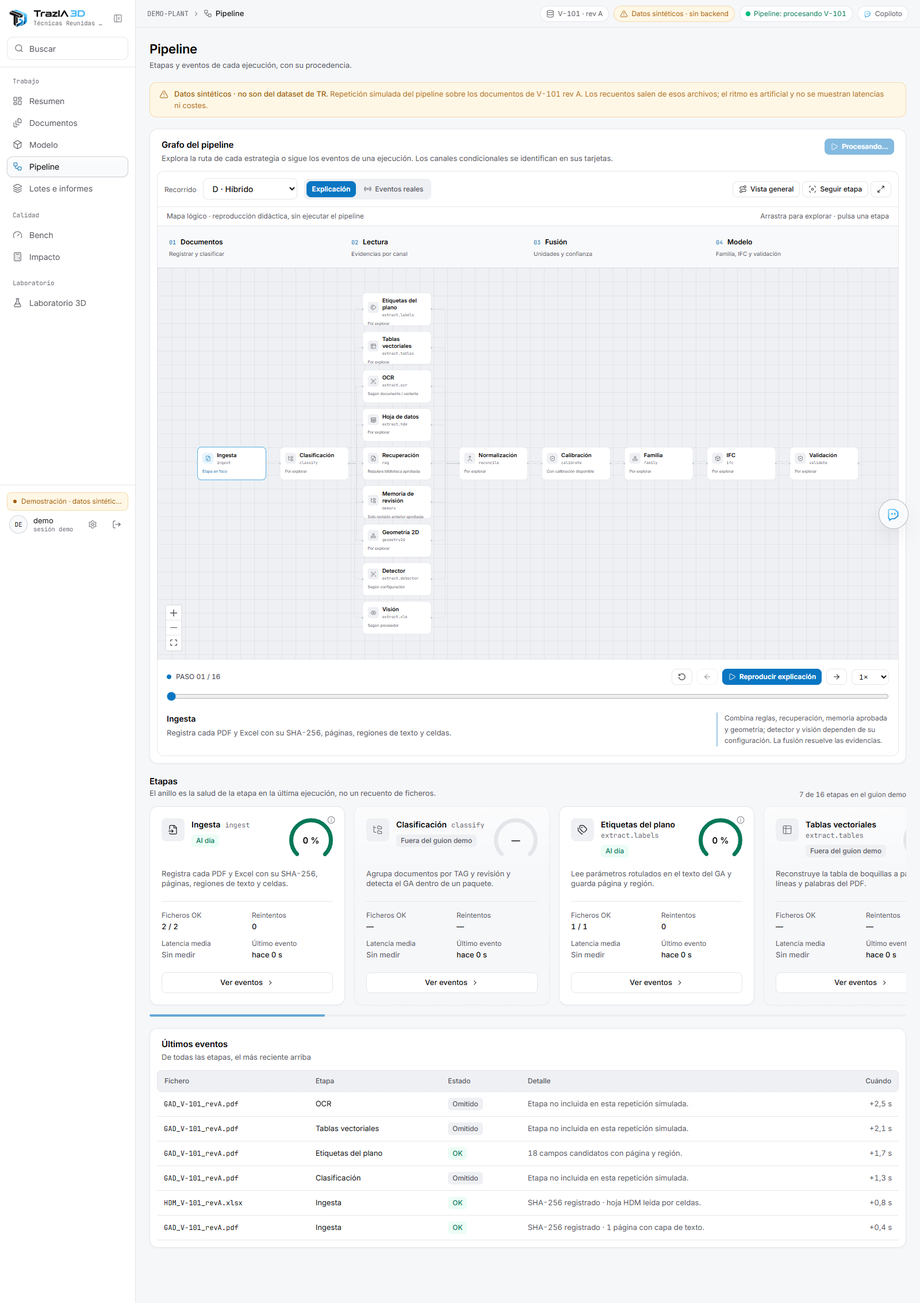
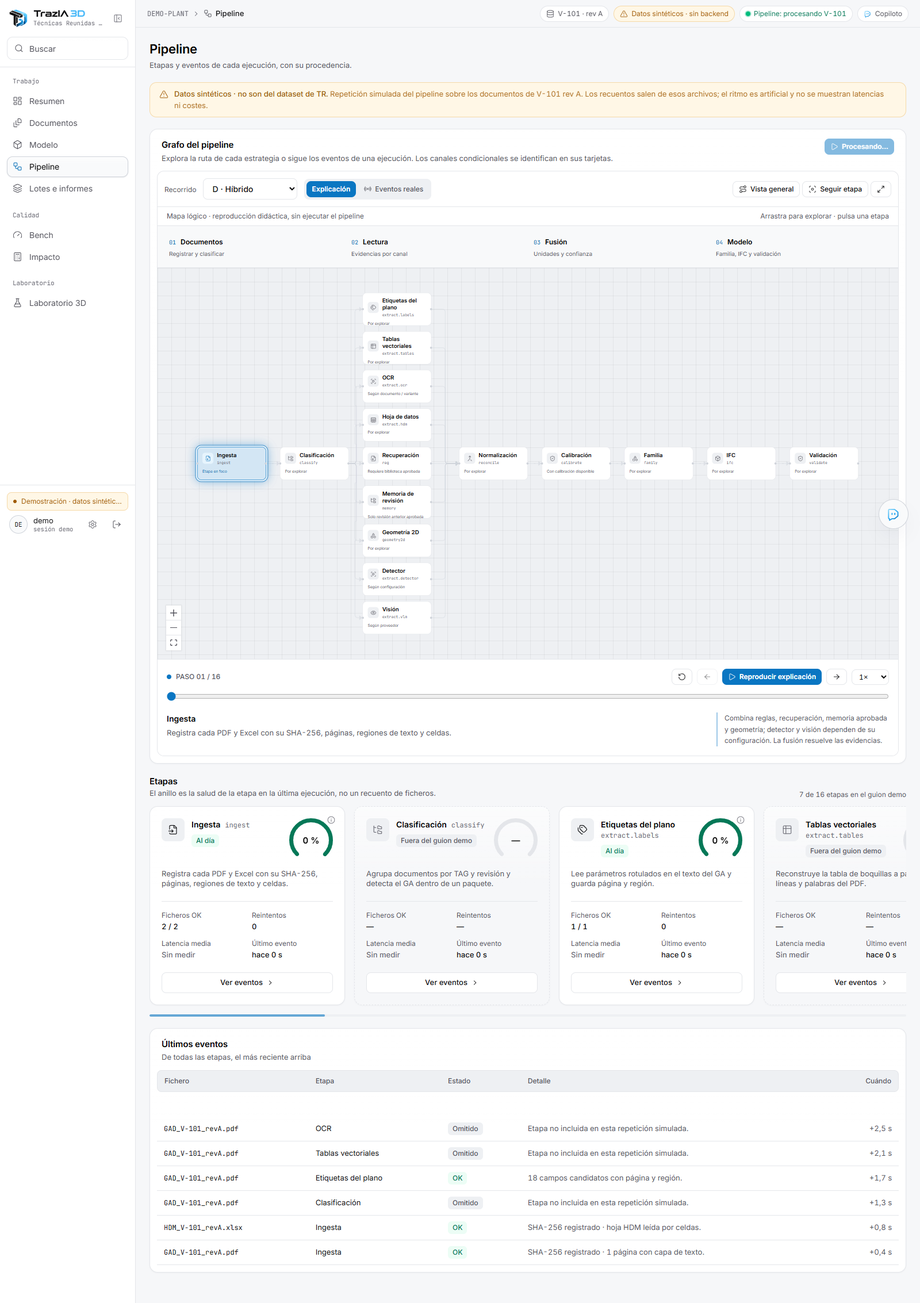
web: acelerar la traza del pipeline y mostrar el estado real por fase

diff --git a/web/src/features/pipeline/pipeline-graph.tsx b/web/src/features/pipeline/pipeline-graph.tsx
@@ -1,7 +1,7 @@
 "use client";
 
 import "@xyflow/react/dist/style.css";
-import { BaseEdge, Controls, Handle, Position, ReactFlow, ReactFlowProvider, getSmoothStepPath, useReactFlow, type Edge, type EdgeProps, type Node, type NodeProps } from "@xyflow/react";
+import { BaseEdge, Controls, Handle, MarkerType, Position, ReactFlow, ReactFlowProvider, getSmoothStepPath, useReactFlow, type Edge, type EdgeProps, type Node, type NodeProps } from "@xyflow/react";
 import { ArrowLeft, ArrowRight, Focus, Maximize2, Pause, Play, Radio, RotateCcw, Route } from "lucide-react";
 import { useTheme } from "next-themes";
 import { memo, useEffect, useMemo, useRef, useState, useSyncExternalStore } from "react";
@@ -13,13 +13,14 @@ import { STAGES, type StageDef, type StageId } from "@/lib/mock/pipeline";
 import { usePipeline, type StageRunState } from "@/stores/pipeline";
 import { STAGE_ICON } from "./stage-meta";
 import { CONDITIONAL, NODE_HEIGHT, NODE_WIDTH, PROFILES, graphModel, type Strategy } from "./graph-model";
+import { StageInspector } from "./stage-inspector";
 import styles from "./pipeline-graph.module.css";
 
-type StageNode = Node<{ def: StageDef; run: StageRunState; active: boolean; visited: boolean; live: boolean; inspect: () => void }, "stage">;
+type StageNode = Node<{ def: StageDef; run: StageRunState; active: boolean; visited: boolean; live: boolean; moving: boolean; selected: boolean; inspect: () => void }, "stage">;
 const StageNodeView = memo(function StageNodeView({ data }: NodeProps<StageNode>) {
   const { def, run, active, visited, live } = data;
   const label = live ? !apiEnabled ? "Sin API conectada" : run.lastEventAt === null ? "Sin eventos" : run.status === "skipped" ? "Omitida" : run.ok < run.total ? "Con errores" : `${run.ok}/${run.total} eventos OK` : active ? "Etapa en foco" : CONDITIONAL[def.id] ?? (visited ? "Explicada" : "Por explorar");
-  return <div role="button" tabIndex={0} aria-label={`Explorar ${def.name}`} onClick={data.inspect} onKeyDown={event => { if (event.key === "Enter" || event.key === " ") { event.preventDefault(); event.stopPropagation(); data.inspect(); } }} data-stage={def.id} data-active={active} style={{ width: NODE_WIDTH, height: NODE_HEIGHT }} className={cn(styles.node, "rounded-xl border bg-surface px-3.5 py-3", active ? "border-accent shadow-[0_0_0_3px_var(--accent-soft)]" : live && run.total > run.ok ? "border-danger/60" : visited ? "border-live/50" : "border-border")}>
+  return <div role="button" tabIndex={0} aria-label={`Explorar ${def.name}`} onClick={data.inspect} onKeyDown={event => { if (event.key === "Enter" || event.key === " ") { event.preventDefault(); event.stopPropagation(); data.inspect(); } }} data-stage={def.id} data-active={active} data-moving={data.moving} data-selected={data.selected} style={{ width: NODE_WIDTH, height: NODE_HEIGHT }} className={cn(styles.node, "rounded-xl border bg-surface px-3.5 py-3", active ? "border-accent shadow-[0_0_0_3px_var(--accent-soft)]" : live && run.total > run.ok ? "border-danger/60" : visited ? "border-live/50" : "border-border")}>
     <Handle type="target" position={Position.Left} className="!size-1.5 !border-0 !bg-border-strong" />
     <div className="flex items-center gap-2.5"><span className={cn("flex size-8 shrink-0 items-center justify-center rounded-lg", active ? "bg-accent-soft text-accent-text" : visited ? "bg-live-soft text-live" : "bg-surface-sunken text-muted")}><Icon icon={STAGE_ICON[def.id]} size={17} /></span><div className="min-w-0"><p className="text-[16px] leading-tight font-semibold text-strong">{def.name}</p><p className="mt-1 font-mono text-[11px] text-faint">{def.code}</p></div></div>
     <p className={cn("mt-2 text-[11px]", active ? "text-accent-text" : "text-muted")}>{label}</p>
@@ -29,12 +30,23 @@ const StageNodeView = memo(function StageNodeView({ data }: NodeProps<StageNode>
 function FlowEdge(props: EdgeProps) {
   const [path] = getSmoothStepPath({ ...props, borderRadius: 12 });
   const flowing = props.data?.flowing === true;
-  return <><BaseEdge id={props.id} path={path} style={props.style} />{flowing ? <circle r="3.5" fill="var(--accent)" style={{ filter: "drop-shadow(0 0 4px var(--accent))" }}><animateMotion dur="1.8s" repeatCount="indefinite" path={path} /></circle> : null}</>;
+  const traced = props.data?.traced === true;
+  const duration = `${0.78 / Number(props.data?.speed ?? 1)}s`;
+  return <>
+    {traced ? <path d={path} fill="none" stroke="var(--accent)" strokeWidth={16} opacity={0.18} style={{ pointerEvents: "none" }} /> : null}
+    <BaseEdge id={props.id} path={path} style={props.style} markerEnd={props.markerEnd} />
+    {flowing ? [0, 1, 2].map(i => <circle key={i} r={i === 0 ? 5 : 3.5} fill="var(--accent)" opacity={1 - i * 0.22} style={{ filter: "drop-shadow(0 0 5px var(--accent))", pointerEvents: "none" }}><animateMotion dur={duration} begin={`${-i * 0.26}s`} repeatCount="indefinite" path={path} /></circle>) : null}
+  </>;
 }
 const nodeTypes = { stage: StageNodeView };
 const edgeTypes = { flow: FlowEdge };
 
 function Graph({ strategy, onStrategyChange }: { strategy: Strategy; onStrategyChange: (value: Strategy) => void }) {
+  const jobStatus = usePipeline(s => s.jobStatus);
+  const jobStrategy = usePipeline(s => s.jobStrategy);
+  const inputFiles = usePipeline(s => s.inputFiles);
+  const jobId = usePipeline(s => s.jobId);
+  const connectionError = usePipeline(s => s.error);
   const stages = usePipeline(s => s.stages);
   const events = usePipeline(s => s.events);
   const activeStage = usePipeline(s => s.activeStage);
@@ -57,6 +69,7 @@ function Graph({ strategy, onStrategyChange }: { strategy: Strategy; onStrategyC
   const [speed, setSpeed] = useState(1);
   const [follow, setFollow] = useState(false);
   const [inspected, setInspected] = useState<StageId | null>(null);
+  const [panelStage, setPanelStage] = useState<StageId | null>(null);
   const [expanded, setExpanded] = useState(false);
   const { fitView, setCenter } = useReactFlow();
   const live = mode === "live";
@@ -65,9 +78,10 @@ function Graph({ strategy, onStrategyChange }: { strategy: Strategy; onStrategyC
   const observedKey = observed.join(",");
   const model = useMemo(() => graphModel(effectiveStrategy, observedKey ? observedKey.split(",") as StageId[] : []), [effectiveStrategy, observedKey]);
   const index = Math.min(step, model.ids.length - 1);
-  const focus = live ? apiEnabled ? inspected ?? activeStage : null : model.ids[index];
+  const focus = live ? apiEnabled ? activeStage ?? inspected : null : model.ids[index];
   const def = STAGES.find(s => s.id === focus);
   const lastEvent = live && apiEnabled ? events.find(event => event.stage === focus) : null;
+  const panelDef = STAGES.find(stage => stage.id === panelStage);
   const moving = playing && !live && !reduce && visible && pageVisible;
 
   useEffect(() => {
@@ -82,7 +96,7 @@ function Graph({ strategy, onStrategyChange }: { strategy: Strategy; onStrategyC
     const timer = window.setTimeout(() => {
       if (index === model.ids.length - 1) setPlaying(false);
       else setStep(index + 1);
-    }, 2600 / speed);
+    }, 1050 / speed);
     return () => window.clearTimeout(timer);
   }, [moving, index, model.ids.length, speed]);
   useEffect(() => {
@@ -101,11 +115,11 @@ function Graph({ strategy, onStrategyChange }: { strategy: Strategy; onStrategyC
     return () => clearTimeout(timer);
   }, [layoutKey, expanded, fitView, reduce, follow]);
   useEffect(() => {
-    if (!expanded) return;
-    const escape = (event: KeyboardEvent) => { if (event.key === "Escape") setExpanded(false); };
+    if (!expanded && !panelStage) return;
+    const escape = (event: KeyboardEvent) => { if (event.key === "Escape") { if (panelStage) { setPanelStage(null); container.current?.querySelector<HTMLElement>(`[data-stage="${panelStage}"]`)?.focus({ preventScroll: true }); } else setExpanded(false); } };
     window.addEventListener("keydown", escape);
     return () => window.removeEventListener("keydown", escape);
-  }, [expanded]);
+  }, [expanded, panelStage]);
   useEffect(() => {
     const el = container.current;
     if (!el) return;
@@ -116,30 +130,33 @@ function Graph({ strategy, onStrategyChange }: { strategy: Strategy; onStrategyC
     return () => observer.disconnect();
   }, [fitView, follow]);
 
-  const nodes = useMemo<StageNode[]>(() => model.ids.map((id, i) => ({ id, type: "stage", position: model.positions[id]!, draggable: false, ariaLabel: `${STAGES.find(s => s.id === id)!.name}: explorar etapa`, data: { def: STAGES.find(s => s.id === id)!, run: stages[id], active: focus === id, visited: live ? apiEnabled && stages[id].status === "done" : i < index, live, inspect: () => { setPlaying(false); if (live) setInspected(id); else setStep(i); } } })), [model, stages, focus, index, live]);
+  const nodes = useMemo<StageNode[]>(() => model.ids.map((id, i) => ({ id, type: "stage", position: model.positions[id]!, draggable: false, ariaLabel: `${STAGES.find(s => s.id === id)!.name}: explorar etapa`, data: { def: STAGES.find(s => s.id === id)!, run: stages[id], active: focus === id, visited: live ? apiEnabled && stages[id].status === "done" : i < index, live, moving: focus === id && (moving || live && running && activeStage === id && !reduce && visible && pageVisible), selected: panelStage === id, inspect: () => { setPanelStage(id); setPlaying(false); if (live) setInspected(id); else setStep(i); } } })), [model, stages, focus, index, live, moving, running, reduce, visible, pageVisible, panelStage, activeStage]);
   const edges = useMemo<Edge[]>(() => model.edges.map(([source, target]) => {
     const lit = live ? apiEnabled && stages[source].status === "done" && stages[target].lastEventAt !== null : model.ids.indexOf(target) <= index;
-    const flowing = moving && focus === target || live && !reduce && visible && pageVisible && focus === target;
-    return { id: `${source}-${target}`, source, target, type: "flow", data: { flowing }, style: { stroke: flowing ? "var(--accent)" : lit ? "var(--live)" : "var(--border-strong)", strokeWidth: flowing ? 2 : 1.4, opacity: lit || flowing ? 1 : 0.45 } };
-  }), [model, stages, index, focus, moving, live, reduce, visible, pageVisible]);
+    const traced = focus === target;
+    const flowing = moving && traced || live && running && !reduce && visible && pageVisible && activeStage === target;
+    const stroke = traced ? "var(--accent)" : lit ? "var(--live)" : "var(--border-strong)";
+    return { id: `${source}-${target}`, source, target, type: "flow", data: { flowing, traced, speed }, markerEnd: { type: MarkerType.ArrowClosed, color: stroke, width: 18, height: 18 }, style: { stroke, strokeWidth: traced ? 4.5 : lit ? 2.4 : 1.5, opacity: traced || lit ? 1 : 0.55 } };
+  }), [model, stages, index, focus, moving, live, running, activeStage, reduce, visible, pageVisible, speed]);
   const seek = (value: number) => { setPlaying(false); setStep(value); };
   return <div ref={container} className={cn("overflow-hidden rounded-xl border border-border bg-surface", expanded && "fixed inset-4 z-50 overflow-y-auto shadow-2xl")}>
     <div className="flex flex-wrap items-center justify-between gap-3 border-b border-border p-3">
-      <div className="flex flex-wrap items-center gap-3"><label className="text-xs text-muted">Recorrido <select aria-label="Estrategia del grafo" className="ml-2 rounded-lg border border-border bg-surface px-3 py-2 text-sm font-medium text-text" value={effectiveStrategy} disabled={live || running && apiEnabled} onChange={e => { manualPan.current = false; onStrategyChange(e.target.value as Strategy); seek(0); }}>{Object.entries(PROFILES).map(([key, p]) => <option key={key} value={key}>{p.name}</option>)}</select></label>
+      <div className="flex flex-wrap items-center gap-3"><label className="text-xs text-muted">Recorrido <select aria-label="Estrategia del grafo" className="ml-2 rounded-lg border border-border bg-surface px-3 py-2 text-sm font-medium text-text" value={effectiveStrategy} disabled={live || running && apiEnabled} onChange={e => { setPanelStage(null); manualPan.current = false; onStrategyChange(e.target.value as Strategy); seek(0); }}>{Object.entries(PROFILES).map(([key, p]) => <option key={key} value={key}>{p.name}</option>)}</select></label>
       <div className="flex gap-1 rounded-lg bg-surface-sunken p-1" aria-label="Origen del grafo"><Button size="sm" variant={!live ? "primary" : "ghost"} aria-pressed={!live} onClick={() => { setMode("explain"); setPlaying(false); }}>Explicación</Button><Button size="sm" variant={live ? "primary" : "ghost"} aria-pressed={live} onClick={() => { setMode("live"); setPlaying(false); }}><Icon icon={Radio} size={13} />Eventos reales</Button></div></div>
       <div className="flex gap-1"><Button size="sm" aria-pressed={!follow} onClick={() => { manualPan.current = false; setFollow(false); void fitView({ padding: 0.12, duration: reduce ? 0 : 280 }); }}><Icon icon={Route} size={14} />Vista general</Button><Button size="sm" aria-pressed={follow} variant={follow ? "primary" : "secondary"} onClick={() => { setInspected(null); setFollow(!follow); }}><Icon icon={Focus} size={14} />Seguir etapa</Button><Button size="sm" aria-label={expanded ? "Reducir grafo" : "Ampliar grafo"} aria-pressed={expanded} onClick={() => { manualPan.current = false; setExpanded(!expanded); }}><Icon icon={Maximize2} size={14} /></Button></div>
     </div>
     <div className="flex flex-wrap justify-between gap-2 border-b border-border px-4 py-2 text-xs text-muted"><span>{live ? apiEnabled ? "Estados recibidos del servidor; sin eventos no implica ejecución." : "Sin API conectada. La simulación de demo no acredita ejecución real." : "Mapa lógico · reproducción didáctica, sin ejecutar el pipeline"}</span><span>Arrastra para explorar · pulsa una etapa</span></div>
     <div className="grid grid-cols-4 gap-1 border-b border-border bg-surface-sunken/40 px-3 py-2" aria-label="Fases del recorrido">
-      {([{ name: "Documentos", id: "ingest", hint: "Registrar y clasificar" }, { name: "Lectura", id: model.channels[0]!, hint: "Evidencias por canal" }, { name: effectiveStrategy === "d_hibrido" ? "Fusión" : "Reconciliación", id: "reconcile", hint: "Unidades y confianza" }, { name: "Modelo", id: "family", hint: "Familia, IFC y validación" }] as { name: string; id: StageId; hint: string }[]).map((phase, i) => <button type="button" key={phase.id} className="rounded-lg px-2 py-2 text-left hover:bg-accent-soft focus-visible:outline-2 focus-visible:outline-accent" onClick={() => { if (live) setInspected(phase.id); else seek(model.ids.indexOf(phase.id)); }}><span className="font-mono text-[10px] text-accent-text">0{i + 1}</span><span className="ml-2 text-xs font-semibold text-strong">{phase.name}</span><span className="mt-1 hidden text-[10px] text-muted sm:block">{phase.hint}</span></button>)}
+      {([{ name: "Documentos", id: "ingest", hint: "Registrar y clasificar" }, { name: "Lectura", id: model.channels[0]!, hint: "Evidencias por canal" }, { name: effectiveStrategy === "d_hibrido" ? "Fusión" : "Reconciliación", id: "reconcile", hint: "Unidades y confianza" }, { name: "Modelo", id: "family", hint: "Familia, IFC y validación" }] as { name: string; id: StageId; hint: string }[]).map((phase, i) => <button type="button" key={phase.id} className="rounded-lg px-2 py-2 text-left hover:bg-accent-soft focus-visible:outline-2 focus-visible:outline-accent" onClick={() => { setPanelStage(phase.id); if (live) setInspected(phase.id); else seek(model.ids.indexOf(phase.id)); }}><span className="font-mono text-[10px] text-accent-text">0{i + 1}</span><span className="ml-2 text-xs font-semibold text-strong">{phase.name}</span><span className="mt-1 hidden text-[10px] text-muted sm:block">{phase.hint}</span></button>)}
     </div>
     <div className={cn("drafting-grid relative w-full", expanded ? "h-[calc(100dvh-390px)] min-h-[200px]" : "h-[560px] sm:h-[680px]")}>
+      {panelDef ? <StageInspector jobLabel={`${jobStrategy ?? "estrategia sin informar"} · ${jobId ?? ""}`} def={panelDef} events={events} actual={apiEnabled && jobId !== null} jobStatus={jobStatus} inputFiles={inputFiles} connectionError={connectionError} onClose={() => { setPanelStage(null); container.current?.querySelector<HTMLElement>(`[data-stage="${panelStage}"]`)?.focus({ preventScroll: true }); }} /> : null}
       <ReactFlow nodes={nodes} edges={edges} nodeTypes={nodeTypes} edgeTypes={edgeTypes} fitView fitViewOptions={{ padding: 0.12, maxZoom: 1 }} minZoom={0.2} maxZoom={1.6} proOptions={{ hideAttribution: true }} colorMode={mounted && resolvedTheme === "light" ? "light" : "dark"} nodesDraggable={false} nodesConnectable={false} nodesFocusable={false} onMoveStart={event => { if (event) { manualPan.current = true; setFollow(false); } }} zoomOnScroll={false} panOnScroll={false} preventScrolling={false} aria-label="Grafo de etapas del pipeline"><Controls showInteractive={false} /></ReactFlow>
     </div>
     <div className="border-t border-border bg-surface p-4">
       <div className="flex flex-wrap items-center gap-2">
         <span className="mr-auto flex items-center gap-2 text-xs font-medium text-muted"><span className="size-2 rounded-full bg-accent" />{live ? "Observación de eventos" : `PASO ${String(index + 1).padStart(2, "0")} / ${model.ids.length}`}</span>
-        {!live ? <><Button size="sm" aria-label="Volver al inicio" onClick={() => seek(0)}><Icon icon={RotateCcw} size={14} /></Button><Button size="sm" aria-label="Etapa anterior" disabled={index === 0} onClick={() => seek(index - 1)}><Icon icon={ArrowLeft} size={14} /></Button><Button size="sm" variant="primary" disabled={!!reduce} onClick={() => { if (index === model.ids.length - 1) setStep(0); setPlaying(!playing); }}><Icon icon={playing ? Pause : Play} size={14} />{playing ? "Pausar" : "Reproducir explicación"}</Button><Button size="sm" aria-label="Etapa siguiente" disabled={index === model.ids.length - 1} onClick={() => seek(index + 1)}><Icon icon={ArrowRight} size={14} /></Button><select aria-label="Velocidad de explicación" className="rounded-lg border border-border bg-surface px-2 py-1 text-xs text-text" value={speed} onChange={e => setSpeed(Number(e.target.value))}><option value={0.5}>0,5×</option><option value={1}>1×</option><option value={2}>2×</option></select></> : null}
+        {!live ? <><Button size="sm" aria-label="Volver al inicio" onClick={() => seek(0)}><Icon icon={RotateCcw} size={14} /></Button><Button size="sm" aria-label="Etapa anterior" disabled={index === 0} onClick={() => seek(index - 1)}><Icon icon={ArrowLeft} size={14} /></Button><Button size="sm" variant="primary" disabled={!!reduce} onClick={() => { setPanelStage(null); if (index === model.ids.length - 1) setStep(0); setPlaying(!playing); }}><Icon icon={playing ? Pause : Play} size={14} />{playing ? "Pausar" : "Reproducir explicación"}</Button><Button size="sm" aria-label="Etapa siguiente" disabled={index === model.ids.length - 1} onClick={() => seek(index + 1)}><Icon icon={ArrowRight} size={14} /></Button><select aria-label="Velocidad de explicación" className="rounded-lg border border-border bg-surface px-2 py-1 text-xs text-text" value={speed} onChange={e => setSpeed(Number(e.target.value))}><option value={0.5}>0,5×</option><option value={1}>1×</option><option value={2}>2×</option><option value={3}>3×</option></select></> : null}
       </div>
       {!live ? <input aria-label="Posición en el recorrido" className="my-3 w-full accent-[var(--accent)]" type="range" min={0} max={model.ids.length - 1} value={index} onChange={e => seek(Number(e.target.value))} /> : null}
       <div className="mt-2 grid gap-3 md:grid-cols-[1fr_300px]"><div aria-live={playing ? "off" : "polite"}><p className="font-semibold text-strong">{def?.name ?? "Esperando eventos"}</p><p className="mt-1 max-w-[85ch] text-[13px] leading-relaxed text-muted">{lastEvent?.detail ?? def?.description ?? "Procesa documentos para observar sus etapas. Los trabajos completados conservan sus estados."}</p>{lastEvent ? <p className="mt-2 font-mono text-[11px] text-muted">{lastEvent.file} · {lastEvent.status === "ok" ? "OK" : lastEvent.status === "error" ? "Error" : "Omitida"}</p> : null}</div><p className="border-l-2 border-accent/40 pl-3 text-xs leading-relaxed text-muted">{PROFILES[effectiveStrategy].detail}{reduce ? " Movimiento reducido: explora con las flechas o el deslizador." : ""}</p></div>

diff --git a/web/src/features/pipeline/stage-inspector.tsx b/web/src/features/pipeline/stage-inspector.tsx
@@ -1,0 +1,37 @@
+"use client";
+
+import { X } from "lucide-react";
+import { Button, Icon } from "@/components/ui/primitives";
+import type { PipelineEvent, StageDef } from "@/lib/mock/pipeline";
+import { stageProgress } from "./stage-progress";
+
+export function StageInspector({ jobLabel, def, events, actual, jobStatus, inputFiles, connectionError, onClose }: {
+  jobLabel: string; def: StageDef; events: PipelineEvent[]; actual: boolean; jobStatus: string | null;
+  inputFiles: string[]; connectionError: string | null; onClose: () => void;
+}) {
+  const data = stageProgress(def.id, actual ? events : [], actual ? jobStatus : null, actual ? inputFiles : []);
+  const statusLabel = ({ queued: "en cola", running: "en curso", done: "finalizado", error: "fallido", cancelled: "cancelado", timeout: "tiempo agotado" } as Record<string, string>)[jobStatus ?? ""] ?? "sin estado";
+  const state = !actual ? "Sin trabajo real" : data.errors ? "Con errores" : data.skipped && !data.ok ? "Omitida" : jobStatus === "done" && data.ok ? "Finalizada" : data.rows.length ? "Resultados recibidos" : "Sin eventos de esta fase";
+  return <aside aria-label="Detalle de la etapa" className="absolute top-3 right-3 z-20 max-h-[calc(100%-24px)] w-[360px] max-w-[calc(100%-24px)] overflow-auto rounded-xl border border-accent/60 bg-surface p-4 shadow-2xl">
+    <div className="flex items-start justify-between gap-3"><div><p className="font-mono text-[10px] uppercase tracking-wider text-accent-text">Inspector de fase</p><h3 className="mt-1 text-lg font-semibold text-strong">{def.name}</h3></div><Button size="sm" variant="ghost" aria-label="Cerrar detalle de etapa" onClick={onClose}><Icon icon={X} size={16} /></Button></div>
+    <p className="mt-2 text-[13px] leading-relaxed text-muted">{def.description}</p>
+    <div className="mt-4 border-t border-border pt-3">
+      <p className="text-xs font-semibold text-strong">{actual ? "Datos reales del trabajo" : "Sin datos reales de ejecución"}</p>
+      {actual ? <p className="mt-1 break-all font-mono text-[10px] text-faint">Último trabajo: {jobLabel}</p> : null}
+      <p className="mt-1 text-xs text-muted">{state}{actual && jobStatus ? ` · trabajo ${statusLabel}` : " · la explicación no ejecuta esta fase"}</p>
+      {connectionError ? <p role="status" className="mt-2 text-xs text-danger">{connectionError} Se conservan los últimos datos recibidos.</p> : null}
+      <dl className="mt-3 grid grid-cols-3 gap-2 text-xs">
+        {[["Eventos OK", data.ok], ["Errores", data.errors], ["Omisiones", data.skipped]].map(([label, value]) => <div key={label}><dt className="text-muted">{label}</dt><dd className="mt-1 font-mono text-lg font-semibold text-strong">{actual ? value : "—"}</dd></div>)}
+      </dl>
+      <div className="mt-4 rounded-lg border border-border bg-surface-sunken p-3" data-testid="stage-progress">
+        <p className="text-xs font-medium text-strong">{def.id === "ingest" ? "Cobertura de documentos" : "Progreso del tramo"}</p>
+        {actual && data.percent !== null ? <><p className="mt-1 text-lg font-semibold text-accent-text">{data.percent} % <span className="text-xs font-normal text-muted">· queda {data.remaining} %</span></p><div role="progressbar" aria-label="Progreso comunicado de la fase" aria-valuenow={data.percent} aria-valuemin={0} aria-valuemax={100} className="mt-2 h-1.5 overflow-hidden rounded-full bg-border"><div className="h-full origin-left bg-accent" style={{ transform: `scaleX(${data.percent / 100})` }} /></div></> : <p className="mt-2 text-sm text-muted">{actual ? "Porcentaje pendiente no informado por la API" : "Porcentaje real no disponible"}</p>}
+        <p className="mt-2 text-[11px] leading-relaxed text-muted">{actual ? data.basis : "La animación didáctica tiene su propio ritmo; no representa procesamiento medido."}</p>
+      </div>
+    </div>
+    <div className="mt-4"><h4 className="text-xs font-semibold text-strong">Últimos datos comunicados</h4>
+      {data.rows.length ? <ul className="mt-2 space-y-2">{data.rows.slice(0, 6).map(row => <li key={row.id} className="rounded-lg border border-border p-2 text-xs"><p className="break-all font-mono text-accent-text">{row.file || "Equipo / modelo"} · {row.status}</p><p className="mt-1 leading-relaxed text-muted">{row.detail}</p></li>)}</ul> : <p className="mt-2 text-xs text-muted">Todavía no hay datos comunicados para esta fase.</p>}
+      <p className="mt-3 text-[10px] leading-relaxed text-faint">Estos mensajes son el detalle disponible del servidor. No son una vista de todos los valores intermedios ni una estimación del tiempo restante.</p>
+    </div>
+  </aside>;
+}

diff --git a/web/src/stores/pipeline.ts b/web/src/stores/pipeline.ts
@@ -68,6 +68,9 @@ type PipelineState = {
   activeStage: StageId | null;
   jobId: string | null;
   jobRun: JobStatus["run"];
+  jobStatus: string | null;
+  jobStrategy: string | null;
+  inputFiles: string[];
   warnings: string[];
   error: string | null;
   start: (rev: Revision, options?: StartOptions) => void;
@@ -81,7 +84,8 @@ let closeEvents: (() => void) | null = null;
 
 async function startApi(rev: Revision, options: StartOptions, set: Setter) {
   closeEvents?.();
-  set({ running: true, error: null, warnings: [], jobRun: null, jobId: null,
+  set({ running: true, error: null, warnings: [], jobRun: null, jobId: null, jobStatus: "queued", jobStrategy: options.strategy ?? "b_reglas",
+    inputFiles: options.files?.length ? options.files.map(file => file.name) : rev.documents.map(document => document.filename),
     revision: rev.revision, events: [], stages: initialStages(), activeStage: null });
   try {
     const identity = `${rev.project_id}:${rev.equipment.id}:${rev.revision}`;
@@ -95,10 +99,10 @@ async function startApi(rev: Revision, options: StartOptions, set: Setter) {
       equipment_id: rev.equipment.id, revision: `${rev.revision}-run-${Date.now().toString(36)}`,
       strategy: options.strategy ?? "b_reglas", dataset: options.dataset ?? (options.files?.length ? "real" : rev.dataset) });
     const job = await getJob(id);
-    set({ jobId: id });
+    set({ jobId: id, jobStatus: job.status });
     closeEvents = subscribeJob(id, event => {
       set(state => {
-        if (state.events.some(e => e.id === String(event.id))) return {};
+        if (state.jobId !== id || state.events.some(e => e.id === String(event.id))) return {};
         const definition = STAGES.find(d => d.id === event.stage);
         const at = Math.max(0, event.created_at - job.created_at);
         const events = [{ ...event, id: String(event.id), at }, ...state.events];
@@ -107,15 +111,15 @@ async function startApi(rev: Revision, options: StartOptions, set: Setter) {
         const next: StageRunState = { status: event.status === "omitido" ? "skipped" : "done",
           ok: previous.ok + (event.status === "ok" ? 1 : 0),
           total: previous.total + (event.status === "omitido" ? 0 : 1), lastEventAt: event.created_at * 1000 };
-        return { events, error: null, stages: { ...state.stages, [definition.id]: next }, activeStage: definition.id };
+        return { events, error: null, jobStatus: "running", stages: { ...state.stages, [definition.id]: next }, activeStage: definition.id };
       });
     }, status => {
       closeEvents = null;
-      set({ running: false, activeStage: null, lastFinishedAt: Date.now() });
-      void getJob(id).then(result => set({ jobRun: result.run, warnings: result.warnings,
-        error: status === "done" ? null : result.error ?? `Trabajo ${status}` })).catch(error => set({ error: String(error) }));
+      set({ running: false, activeStage: null, jobStatus: status, lastFinishedAt: Date.now() });
+      void getJob(id).then(result => set(state => state.jobId === id ? { jobRun: result.run, jobStatus: result.status, warnings: result.warnings,
+        error: status === "done" ? null : result.error ?? `Trabajo ${status}` } : {})).catch(error => set(state => state.jobId === id ? { error: String(error) } : {}));
     }, () => set({ error: "Conexión de eventos interrumpida; intentando reanudar con la API." }));
-  } catch (error) { set({ running: false, error: error instanceof Error ? error.message : String(error) }); }
+  } catch (error) { set({ running: false, jobStatus: "error", error: error instanceof Error ? error.message : String(error) }); }
 }
 
 export const usePipeline = create<PipelineState>()((set, get) => ({
@@ -126,12 +130,12 @@ export const usePipeline = create<PipelineState>()((set, get) => ({
   stages: initialStages(),
   activeStage: null,
 
-  jobId: null, jobRun: null, warnings: [], error: null,
+  jobId: null, jobRun: null, jobStatus: null, jobStrategy: null, inputFiles: [], warnings: [], error: null,
   cancel: () => {
     const id = get().jobId;
     if (!id) return;
     closeEvents?.(); closeEvents = null;
-    void cancelJob(id).then(() => set({ running: false, activeStage: null, error: "Trabajo cancelado" }))
+    void cancelJob(id).then(() => set({ running: false, activeStage: null, jobStatus: "cancelled", error: "Trabajo cancelado" }))
       .catch(error => set({ error: String(error) }));
   },
   start: (rev, options = {}) => {

diff --git a/web/tests/e2e/pipeline-producto.spec.ts b/web/tests/e2e/pipeline-producto.spec.ts
@@ -62,6 +62,9 @@ test("eventos sin API, teclado y ancho móvil", async ({ page }) => {
   await page.setViewportSize({ width: 390, height: 844 });
   await page.goto("/pipeline");
   await page.getByRole("button", { name: "Explorar Ingesta", exact: true }).press("Enter");
+  await expect(page.getByRole("complementary", {name: "Detalle de la etapa"})).toContainText("Sin datos reales de ejecución");
+  await expect(page.getByTestId("stage-progress")).toContainText("Porcentaje real no disponible");
+  await page.getByRole("button", {name: "Cerrar detalle de etapa"}).click();
   await expect(page.getByLabel("Posición en el recorrido")).toHaveValue("0");
   await page.getByRole("button", { name: "Eventos reales", exact:true }).click();
   await expect(page.getByText("Sin API conectada. La simulación de demo no acredita ejecución real.", {exact:true})).toBeVisible();
@@ -79,5 +82,27 @@ test("el grafo observa un trabajo real por SSE", async ({ page }) => {
   await page.getByRole("button", {name: "Explorar IFC", exact: true}).press("Enter");
   await expect(page.locator('[data-stage="ifc"]')).toHaveAttribute("data-active", "true");
   await expect(page.locator('[data-stage="ifc"]')).toContainText("eventos OK");
+  const inspector = page.getByRole("complementary", {name: "Detalle de la etapa"});
+  await expect(inspector).toContainText("Datos reales del trabajo");
+  await expect(inspector).toContainText("Finalizada");
+  await expect(inspector.getByRole("progressbar")).toHaveAttribute("aria-valuenow", "100");
+  await inspector.screenshot({path: "../docs/capturas/pipeline-inspector-real.png"});
   await expect(page.getByRole("cell", {name: /IFC4 DRAFT almacenado/})).toBeVisible();
+});
+
+
+test("traza rápida, halo e inspector de fase", async ({ page }) => {
+  await page.goto("/pipeline");
+  await page.getByRole("button", {name: "Etapa siguiente",exact:true}).click();
+  await page.getByRole("button", {name: "Reproducir explicación",exact:true}).click();
+  await expect(page.locator(".react-flow__edge animateMotion").first()).toHaveAttribute("dur", "0.78s");
+  await expect(page.locator('[data-active="true"][data-moving="true"]')).toHaveCount(1);
+  await page.getByRole("button", {name: "Pausar",exact:true}).click();
+  await page.getByRole("button", {name: "Explorar Ingesta",exact:true}).click();
+  const inspector = page.getByRole("complementary", {name: "Detalle de la etapa"});
+  await expect(inspector).toContainText("Registra cada PDF");
+  await expect(inspector).toBeVisible();
+  await page.keyboard.press("Escape");
+  await expect(inspector).toHaveCount(0);
+  await expect(page.getByRole("button", {name: "Explorar Ingesta",exact:true})).toBeFocused();
 });

diff --git a/web/src/features/pipeline/stage-progress.test.ts b/web/src/features/pipeline/stage-progress.test.ts
@@ -1,0 +1,25 @@
+import { describe, expect, it } from "vitest";
+import { stageProgress } from "./stage-progress";
+import type { PipelineEvent } from "@/lib/mock/pipeline";
+const event = (stage: string, file: string, status: PipelineEvent["status"] = "ok"): PipelineEvent => ({ id: `${stage}-${file}-${status}`, stage, file, status, detail: "Dato del servidor", at: 1 });
+
+describe("progreso respaldado por eventos", () => {
+  it("cuenta documentos conocidos y conserva errores, sin confundir cobertura con éxito", () => {
+    const rows = [event("ingest", "a.pdf"), event("ingest", "a.pdf"), event("ingest", "b.pdf", "error")];
+    expect(stageProgress("ingest", rows.slice(0, 2), "running", ["a.pdf", "b.pdf"]).percent).toBe(50);
+    expect(stageProgress("ingest", rows, "error", ["a.pdf", "b.pdf"])).toMatchObject({ percent: 100, errors: 1, remaining: 0 });
+  });
+  it("no usa OK/total de eventos como porcentaje de procesamiento", () => {
+    expect(stageProgress("extract_ocr", [event("extract_ocr", "a.pdf")], "running", []).percent).toBeNull();
+    expect(stageProgress("extract_ocr", [event("extract_ocr", "a.pdf")], "cancelled", []).percent).toBeNull();
+  });
+  it("solo cierra tramos observados sin error al finalizar un trabajo correctamente", () => {
+    expect(stageProgress("ifc", [event("ifc", "modelo.ifc")], "done", [])).toMatchObject({ percent: 100, remaining: 0 });
+    expect(stageProgress("ifc", [], "done", []).percent).toBeNull();
+    expect(stageProgress("ifc", [event("ifc", "modelo.ifc", "error")], "done", []).percent).toBeNull();
+  });
+  it("no infiere un denominador ante nombres ambiguos ni cuenta omisiones como éxito", () => {
+    expect(stageProgress("ingest", [event("ingest", "a.pdf")], "running", ["a.pdf", "a.pdf"]).percent).toBeNull();
+    expect(stageProgress("extract_vision", [event("extract_vision", "a.pdf", "omitido")], "done", [])).toMatchObject({ percent: null, skipped: 1, ok: 0 });
+  });
+});

diff --git a/web/src/features/pipeline/pipeline-graph.module.css b/web/src/features/pipeline/pipeline-graph.module.css
@@ -1,3 +1,9 @@
-.node { transition: border-color var(--dur-base) var(--ease-out), box-shadow var(--dur-base) var(--ease-out); cursor: pointer; }
+.node { position: relative; isolation: isolate; transition: border-color var(--dur-base) var(--ease-out), background-color var(--dur-base) var(--ease-out); cursor: pointer; }
+.node::after { content: ""; position: absolute; pointer-events: none; inset: -7px; border: 2px solid var(--accent); border-radius: 18px; box-shadow: 0 0 24px color-mix(in srgb, var(--accent) 40%, transparent); opacity: 0; transition: opacity var(--dur-base) var(--ease-out); }
+.node[data-active="true"] { border-color: var(--accent); background: color-mix(in srgb, var(--accent) 18%, var(--surface)); box-shadow: 0 0 0 3px var(--accent-soft), 0 0 30px color-mix(in srgb, var(--accent) 30%, transparent); }
+.node[data-active="true"]::after { opacity: .65; }
+.node[data-moving="true"]::after { animation: phase-signal .85s linear infinite alternate; }
+.node[data-selected="true"] { outline: 2px solid var(--accent); outline-offset: 3px; }
 .node:focus-visible { outline: 2px solid var(--accent); outline-offset: 4px; }
-@media (prefers-reduced-motion: reduce) { .node { transition: none; } }
+@keyframes phase-signal { from { opacity: .35; transform: scale(.99); } to { opacity: .9; transform: scale(1.025); } }
+@media (prefers-reduced-motion: reduce) { .node, .node::after { transition: none; animation: none !important; } }

diff --git a/web/src/features/pipeline/stage-progress.ts b/web/src/features/pipeline/stage-progress.ts
@@ -1,0 +1,21 @@
+import type { PipelineEvent, StageId } from "@/lib/mock/pipeline";
+
+/** Los eventos OK no son un denominador de trabajo pendiente. Solo la ingesta
+ * conoce sus documentos de entrada; las otras fases no publican unidades totales. */
+export function stageProgress(stage: StageId, events: PipelineEvent[], jobStatus: string | null, inputFiles: string[]) {
+  const rows = events.filter(event => event.stage === stage);
+  const errors = rows.filter(event => event.status === "error").length;
+  const skipped = rows.filter(event => event.status === "omitido").length;
+  const ok = rows.filter(event => event.status === "ok").length;
+  let percent: number | null = null;
+  let basis = "La API no informa unidades totales para este tramo.";
+  if (stage === "ingest" && inputFiles.length > 0 && new Set(inputFiles).size === inputFiles.length) {
+    const seen = new Set(rows.filter(row => inputFiles.includes(row.file)).map(row => row.file));
+    percent = Math.floor(seen.size / inputFiles.length * 100);
+    basis = `${seen.size} de ${inputFiles.length} documentos con respuesta de ingesta (incluye errores y duplicados).`;
+  } else if (jobStatus === "done" && ok > 0 && errors === 0) {
+    percent = 100;
+    basis = "Tramo con resultados y trabajo finalizado por el servidor.";
+  }
+  return { rows, ok, errors, skipped, percent, remaining: percent === null ? null : 100 - percent, basis };
+}

diff --git a/docs/agentes/INFORME_PIPELINE.md b/docs/agentes/INFORME_PIPELINE.md
@@ -32,3 +32,25 @@ Trabajo en `feat/pipeline-recorridos`, worktree propio desde main 55b1e02.
 El mapa explica dependencias lógicas; no promete paralelismo ni orden temporal de todos los
 canales. En observación solo se muestran contadores recibidos. El transporte SSE no cambia.
 Los proveedores, variantes y documentos determinan qué canales condicionales se ejecutan.
+
+
+## 03/11 · traza, ritmo e inspector
+
+- Paso normal: 1.050 ms frente a 2.600 ms; velocidades 0,5/1/2/3×. Traza activa
+  de 4,5 px, halo de conexión, flechas y tres partículas cada 0,78 s. Caja activa con
+  fondo azul y halo pulsante. Pausa y movimiento reducido detienen la animación.
+- Pulsar una caja abre un inspector sobre el grafo, con descripción, identificación de
+  estrategia/trabajo, eventos reales OK/error/omitido, archivos y mensajes del servidor.
+  Escape o cerrar devuelve foco a la caja. La selección no inventa flujo real en un trabajo
+  finalizado ni transforma eventos de demo en ejecución API.
+- El almacén conserva estado del trabajo, estrategia y nombres de entradas. Las respuestas
+  de un trabajo anterior no sobreescriben el nuevo. Sin cambios de contrato del backend.
+- Porcentaje de ingesta: documentos con respuesta / entradas conocidas, deduplicando por
+  nombre y evitando nombres ambiguos. Se etiqueta cobertura, incluidos errores/duplicados,
+  no éxito ni tiempo restante. Prueba de 50 % parcial y 100 % con error conservado.
+- Otras fases: porcentaje pendiente sin informar mientras la API no publica un denominador;
+  100 % solo en tramos con resultados OK, sin errores, al terminar el trabajo correctamente.
+  Fases sin eventos, omitidas, canceladas o fallidas no se rellenan con porcentajes ficticios.
+- Verificación: 46 unitarias, tipos, lint y build; cuatro pruebas de navegador sin API y una
+  con API aislada/SSE real. Se verifica inspector con IFC finalizado, 100 % y mensajes reales.
+  Captura adicional: docs/capturas/pipeline-inspector-real.png. Sin GPU ni datos privados.
